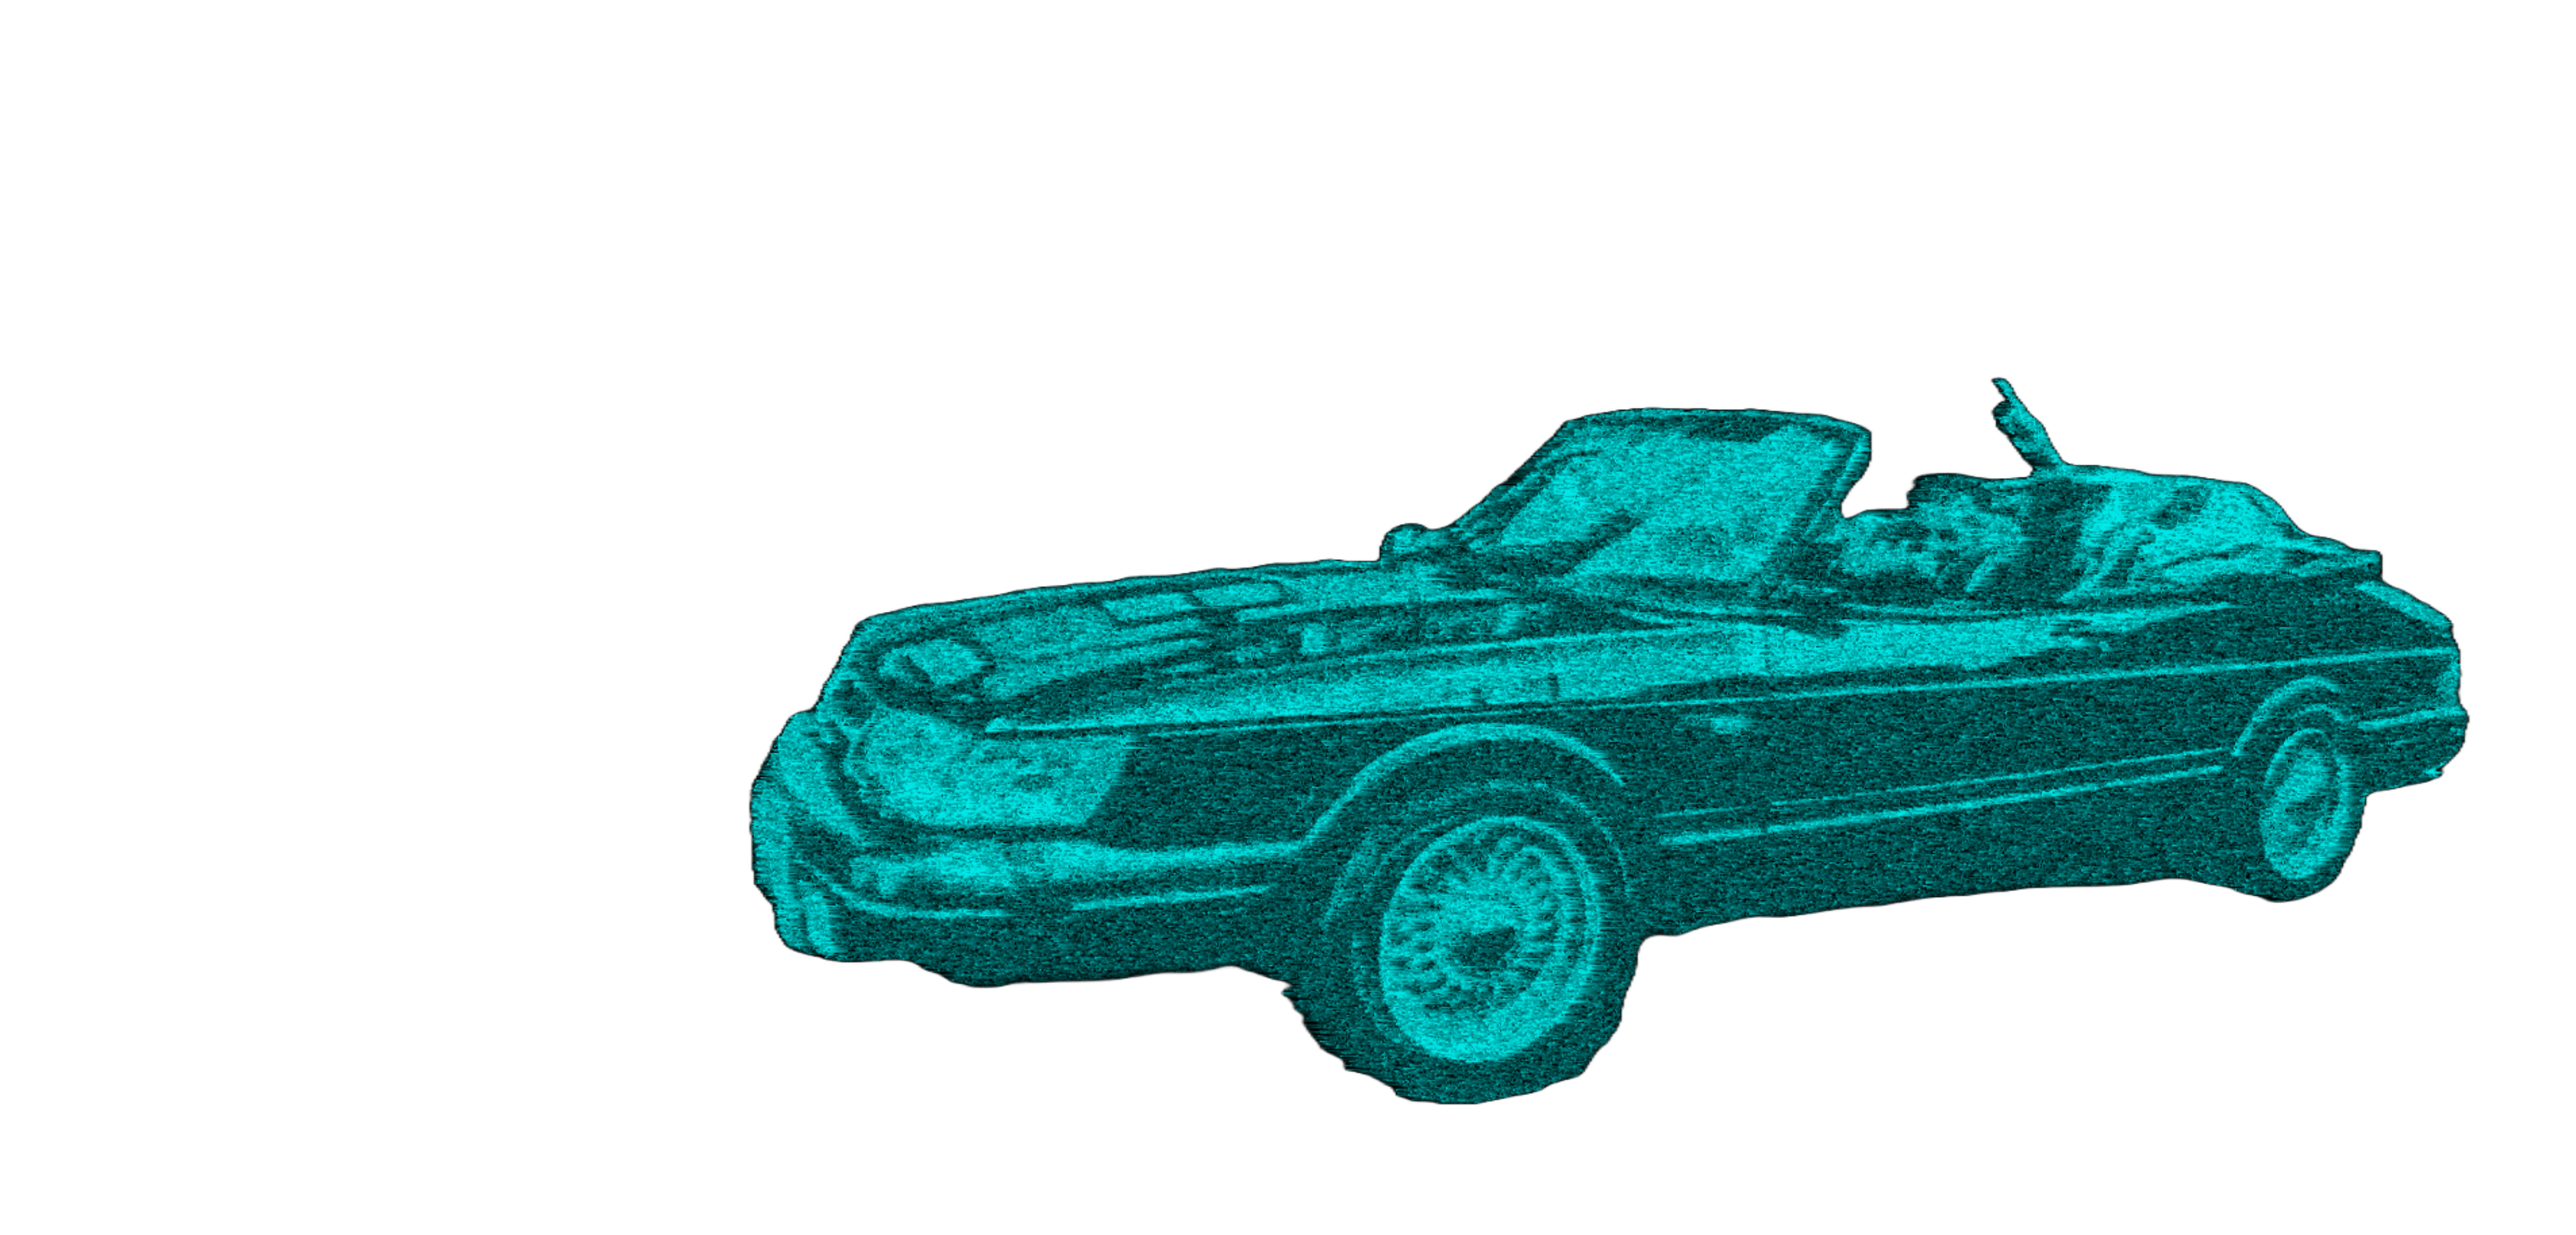
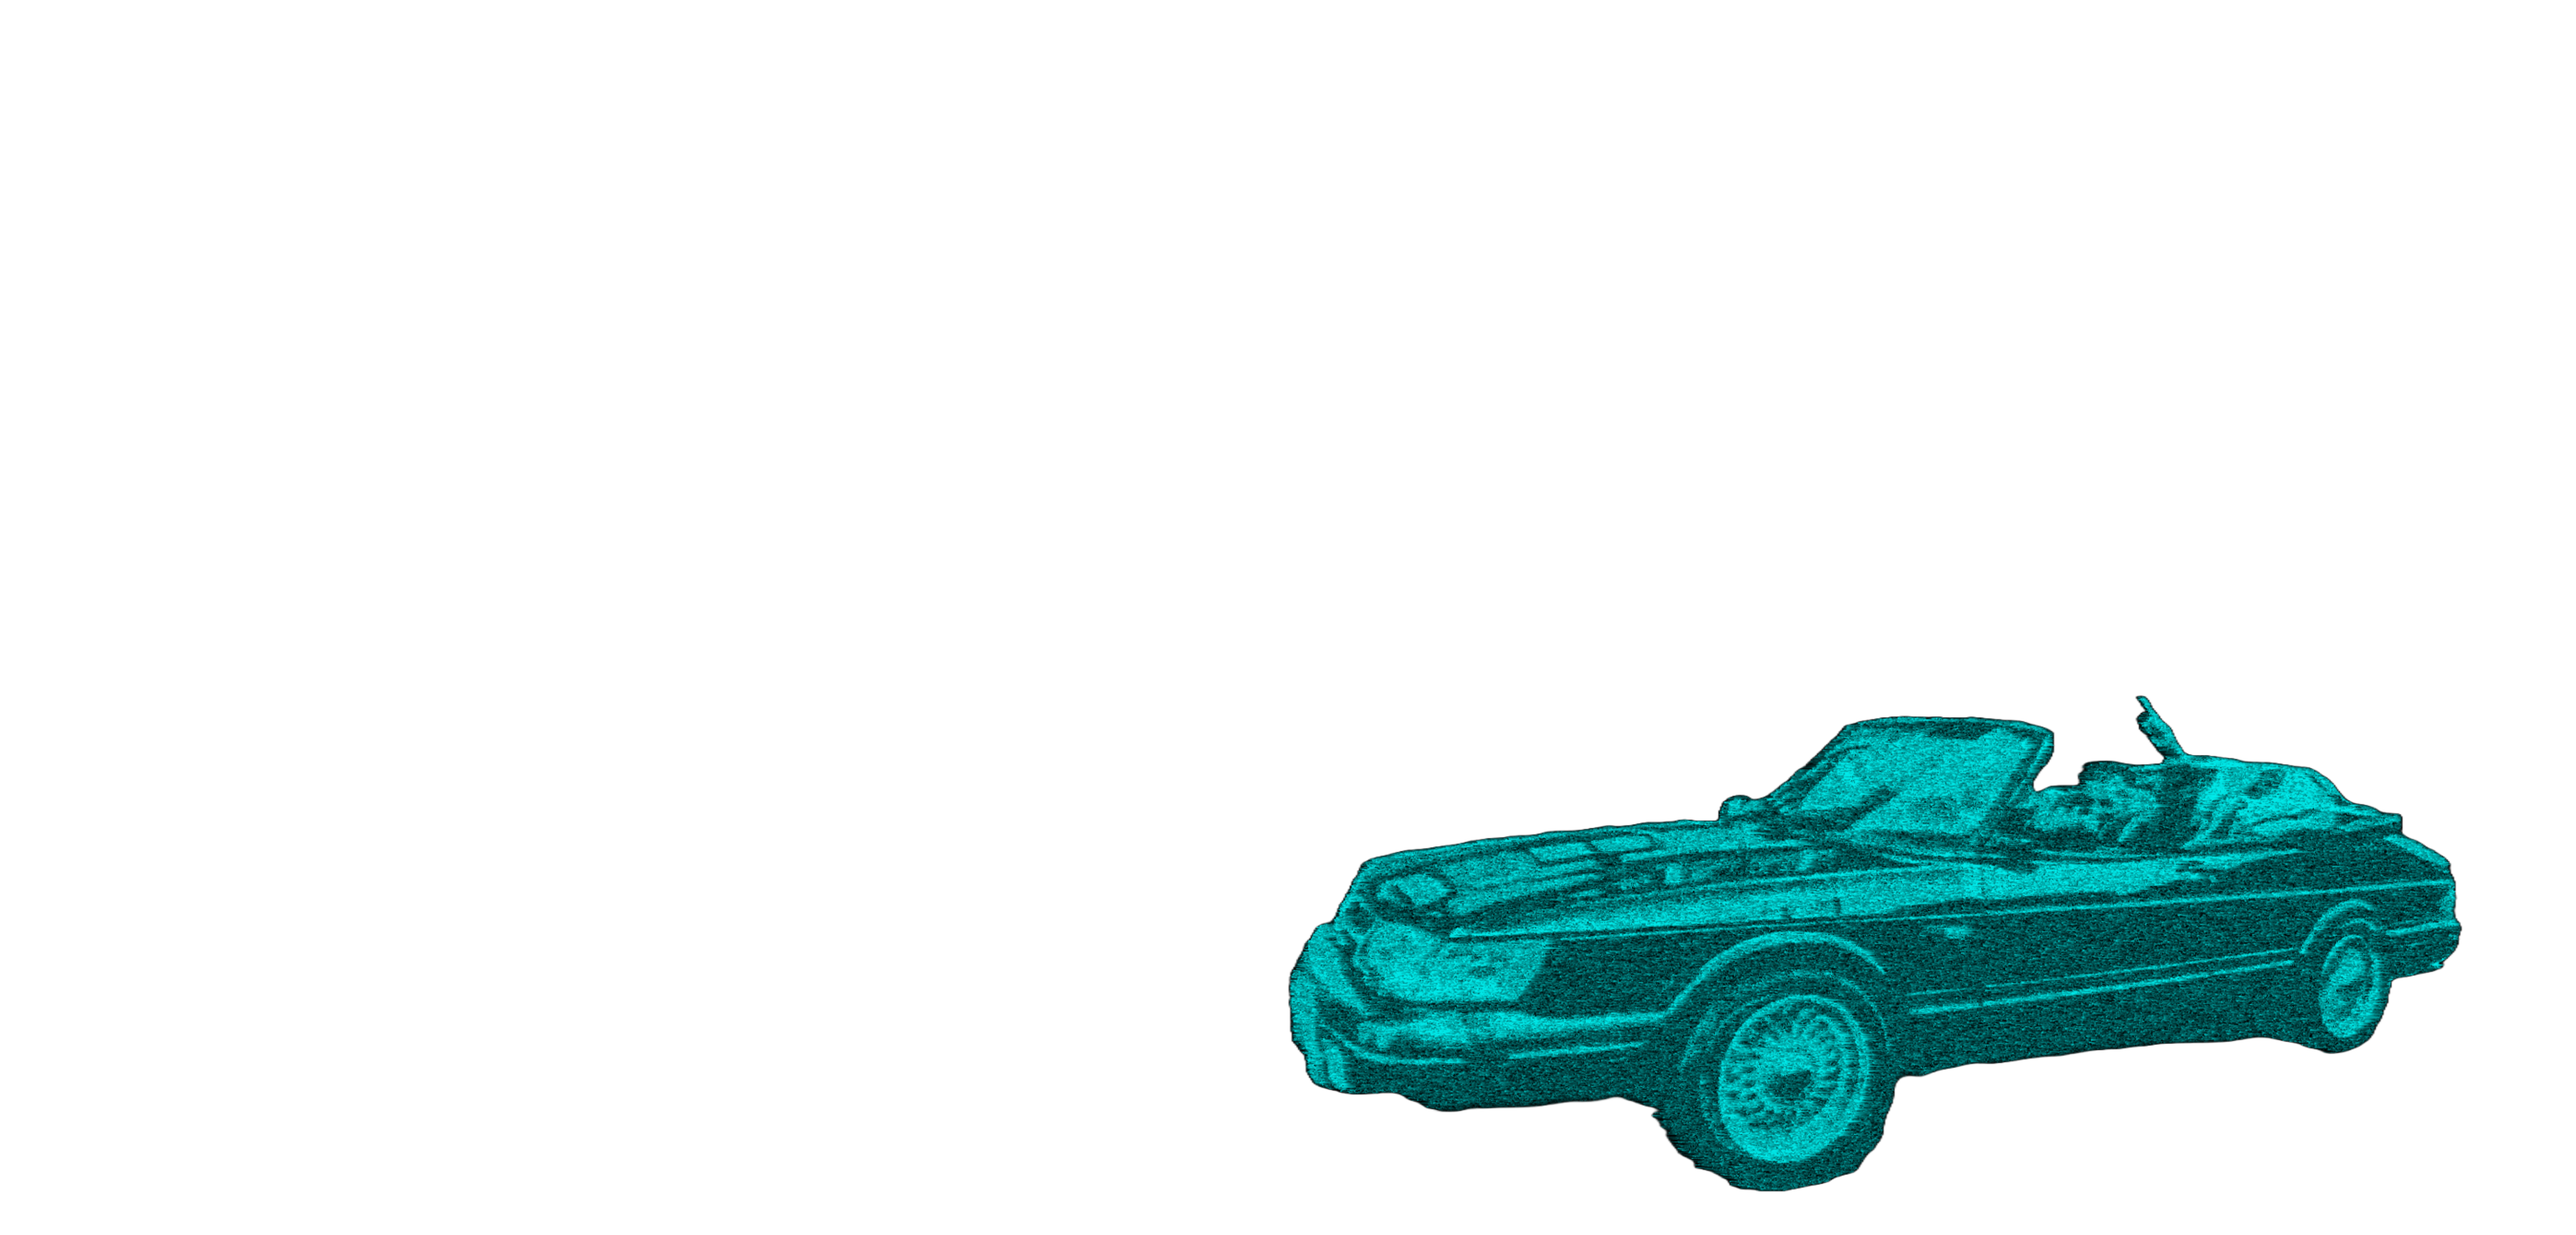
updated background image on homepage

Changed region(s): [[0.2812, 0.3125, 0.9688, 0.9688]]

diff --git a/static/css/base.css b/static/css/base.css
@@ -3,7 +3,7 @@ html {
 }
 
 body {
-    background: url('/media/homepage_background_cropped.jpg') no-repeat center center fixed;
+    background: url('/media/homepage_background_cropped.png') no-repeat center center fixed;
     background-size: cover;
     height: calc(100vh - 164px);
     color: #555;
